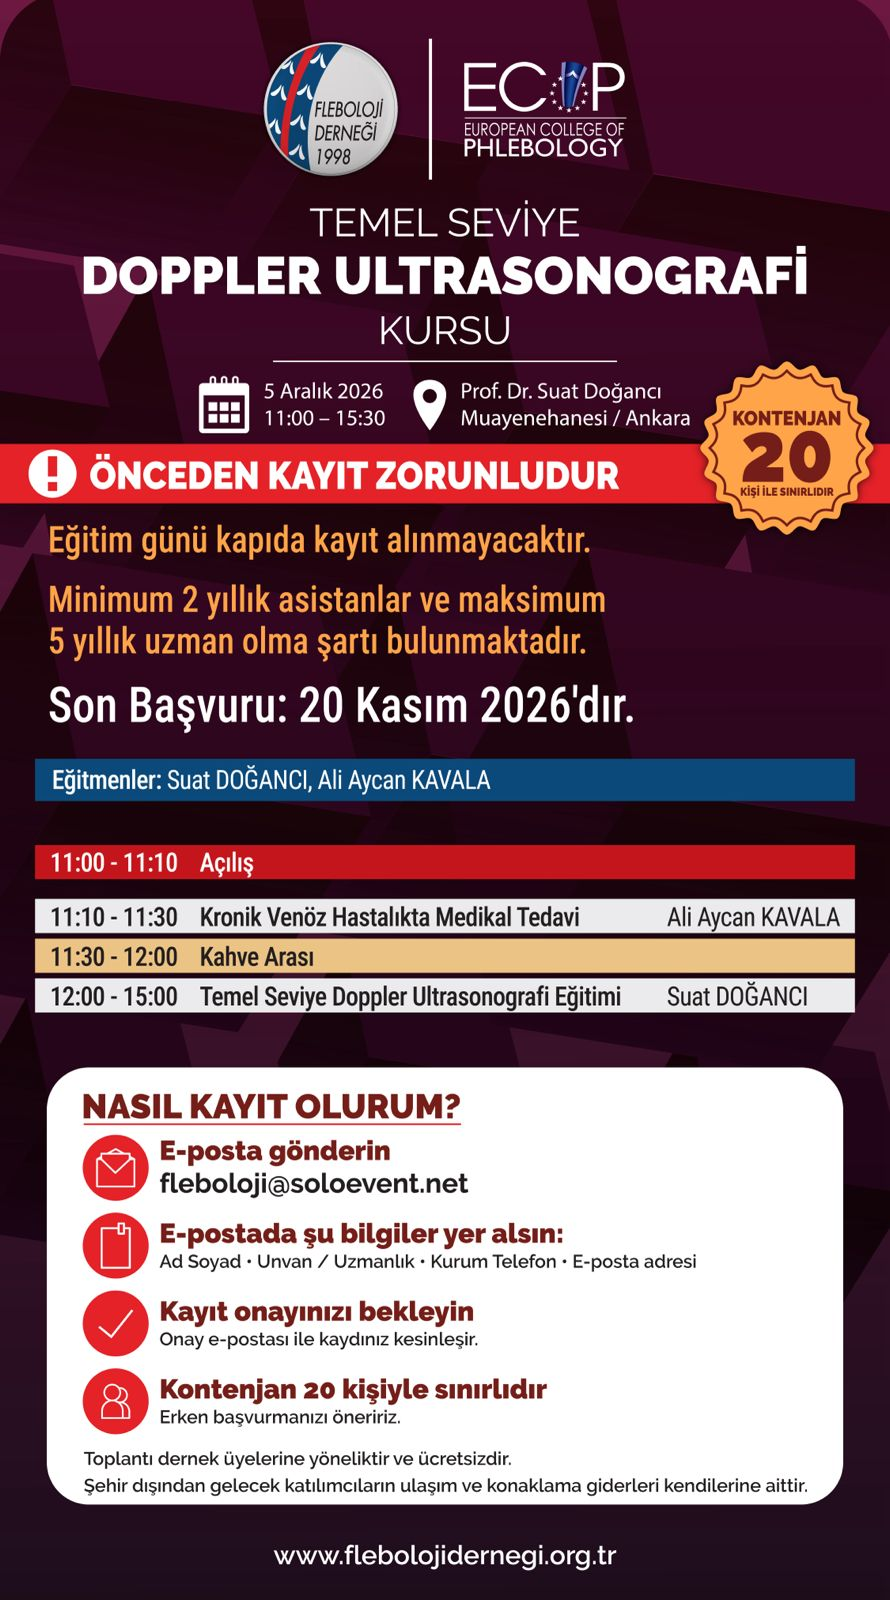
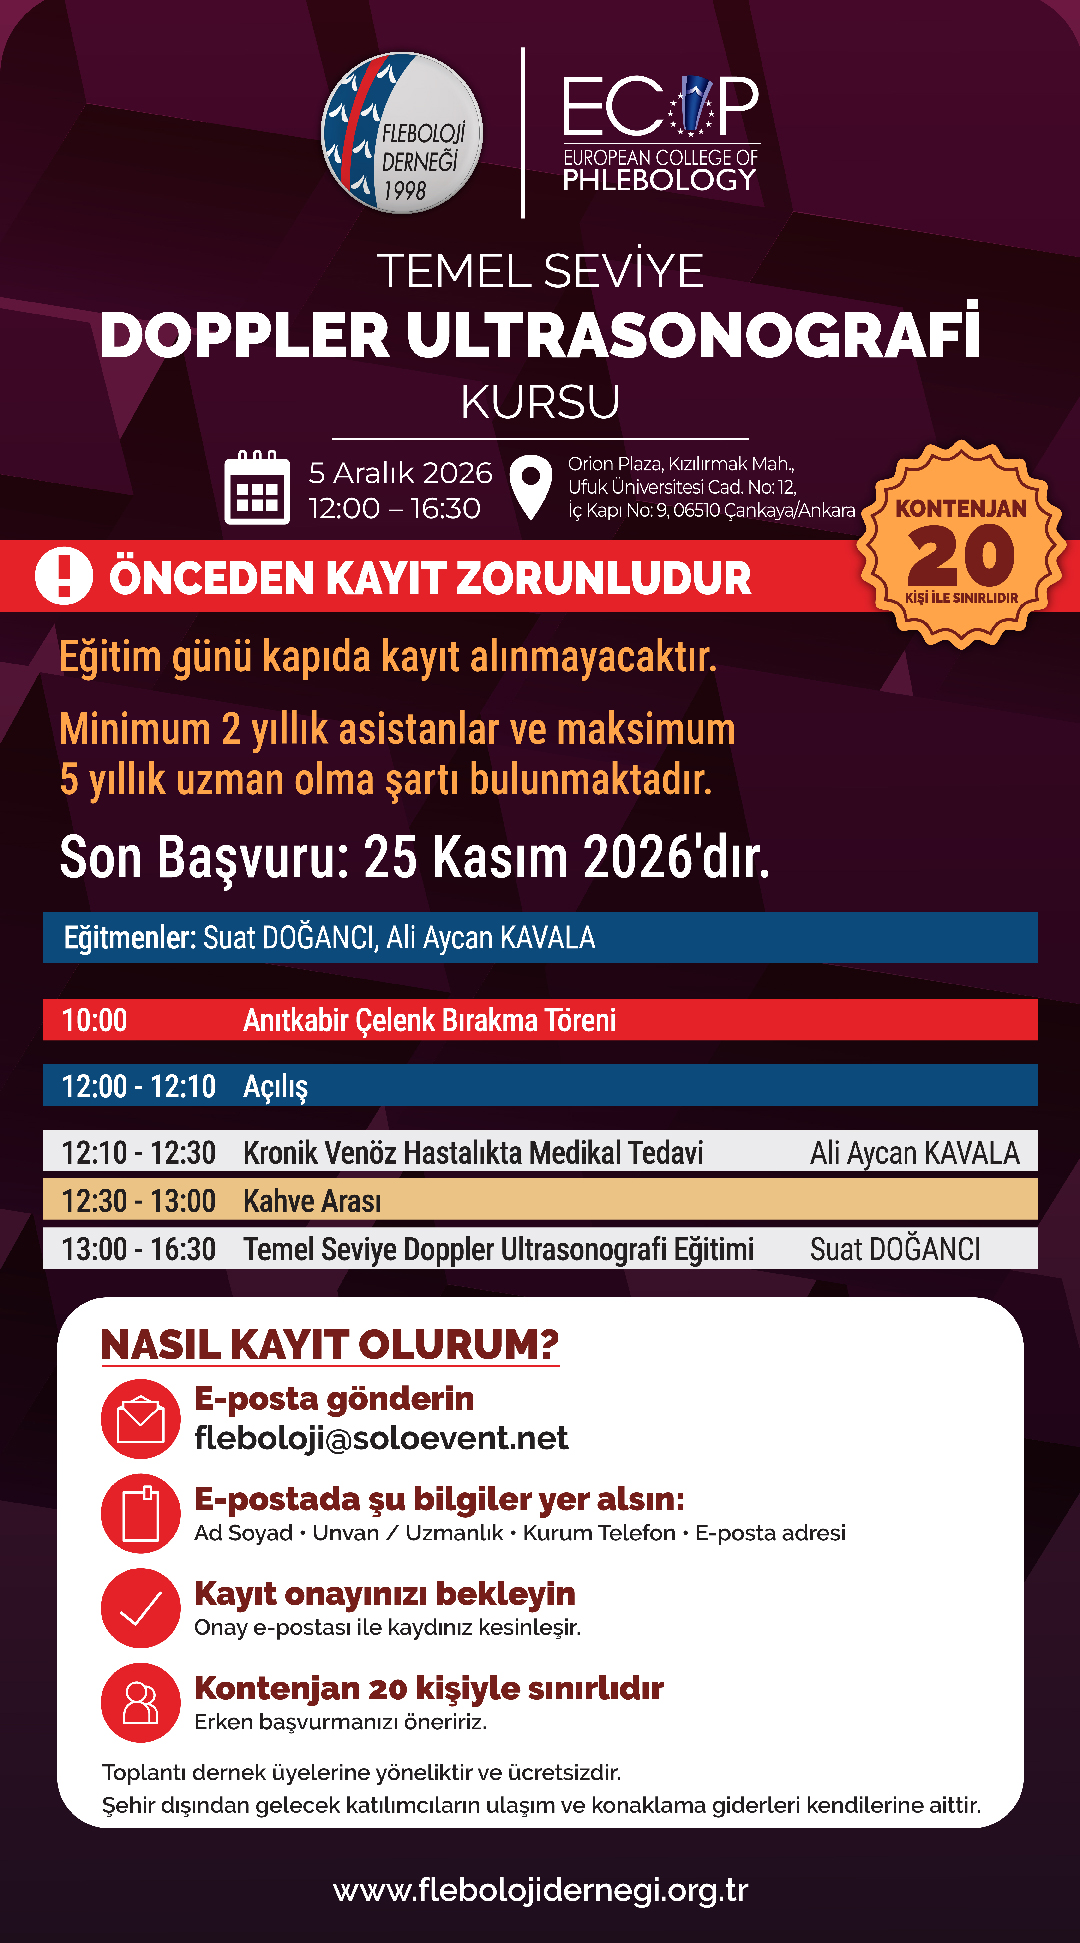
görsel revizesi

diff --git a/index.php b/index.php
@@ -113,7 +113,7 @@
                                 <div class="owl-carousel main-slider-carousel" style="margin-bottom: 20px;">
                                     <div class="slide-item">
                                         <a href="/duyurular/anitkabir.php" title="Anıtkabir Çelenk Bırakma Töreni - 5 Aralık 2026">
-                                            <img alt="Anıtkabir Çelenk Bırakma Töreni - 5 Aralık 2026, saat 10.00" src="/doc/anitkabir/doppler-anitkabir-slider.jpeg" title="Anıtkabir Çelenk Bırakma Töreni" style="width: 100%; height: auto;">
+                                            <img alt="Anıtkabir Çelenk Bırakma Töreni - 5 Aralık 2026, saat 10.00" src="/doc/anitkabir/doppler-anitkabir-slider.jpeg?v=2" title="Anıtkabir Çelenk Bırakma Töreni" style="width: 100%; height: auto;">
                                         </a>
                                     </div>
                                     <div class="slide-item">
@@ -224,7 +224,7 @@
                                                 <div class="td-module-image">
                                                     <div class="td-module-thumb">
                                                         <a href="/duyurular/anitkabir.php" rel="bookmark" title="ANITKABİR ÇELENK BIRAKMA TÖRENİ">
-                                                            <img alt="ANITKABİR ÇELENK BIRAKMA TÖRENİ - 5 Aralık 2026" class="entry-thumb" height="150" sizes="(max-width: 218px) 100vw, 218px" src="doc/anitkabir/doppler-anitkabir-kare.jpeg" srcset="" title="ANITKABİR ÇELENK BIRAKMA TÖRENİ" width="218">
+                                                            <img alt="ANITKABİR ÇELENK BIRAKMA TÖRENİ - 5 Aralık 2026" class="entry-thumb" height="150" sizes="(max-width: 218px) 100vw, 218px" src="doc/anitkabir/doppler-anitkabir-kare.jpeg?v=2" srcset="" title="ANITKABİR ÇELENK BIRAKMA TÖRENİ" width="218">
                                                         </a>
                                                     </div>
                                                 </div>

diff --git a/duyurular.php b/duyurular.php
@@ -40,7 +40,7 @@
                             <div class="td_module_10 td_module_wrap td-animation-stack">
                                 <div class="td-module-thumb" style="margin-bottom: 10px;">
                                     <a href="/duyurular/anitkabir.php" rel="bookmark" title="Anıtkabir Çelenk Bırakma Töreni">
-                                        <img width="218" height="150" class="entry-thumb" src="/doc/anitkabir/doppler-anitkabir-kare.jpeg" sizes="(max-width: 218px) 100vw, 218px" alt="Anıtkabir Çelenk Bırakma Töreni - 5 Aralık 2026" title="Anıtkabir Çelenk Bırakma Töreni" />
+                                        <img width="218" height="150" class="entry-thumb" src="/doc/anitkabir/doppler-anitkabir-kare.jpeg?v=2" sizes="(max-width: 218px) 100vw, 218px" alt="Anıtkabir Çelenk Bırakma Töreni - 5 Aralık 2026" title="Anıtkabir Çelenk Bırakma Töreni" />
                                     </a>
                                 </div>
                                 <div class="item-details">

diff --git a/yan-menu-duyurular-guncel.php b/yan-menu-duyurular-guncel.php
@@ -21,7 +21,7 @@
                 <div class="td_module_6 td_module_wrap td-animation-stack">
                     <div class="td-module-thumb">
                         <a href="/duyurular/anitkabir.php" rel="bookmark" title="ANITKABİR ÇELENK BIRAKMA TÖRENİ">
-                            <img width="100" height="70" class="entry-thumb" src="/doc/anitkabir/doppler-anitkabir-kare.jpeg" alt="ANITKABİR ÇELENK BIRAKMA TÖRENİ - 5 Aralık 2026" title="ANITKABİR ÇELENK BIRAKMA TÖRENİ" />
+                            <img width="100" height="70" class="entry-thumb" src="/doc/anitkabir/doppler-anitkabir-kare.jpeg?v=2" alt="ANITKABİR ÇELENK BIRAKMA TÖRENİ - 5 Aralık 2026" title="ANITKABİR ÇELENK BIRAKMA TÖRENİ" />
                         </a>
                     </div>
                     <div class="item-details">

diff --git a/duyurular/anitkabir.php b/duyurular/anitkabir.php
@@ -27,7 +27,7 @@
                                     </header>
                                 </div>
                                 <div class="td-post-content">
-                                    <img src="../doc/anitkabir/doppler-anitkabir.jpeg" alt="ANITKABİR ÇELENK BIRAKMA TÖRENİ - 5 Aralık 2026, saat 10.00, Aslanlı Yol Girişi, Anıtkabir" style="width: 100%; height: auto;">
+                                    <img src="../doc/anitkabir/doppler-anitkabir.jpeg?v=2" alt="ANITKABİR ÇELENK BIRAKMA TÖRENİ - 5 Aralık 2026, saat 10.00, Aslanlı Yol Girişi, Anıtkabir" style="width: 100%; height: auto;">
                                 </div>
                             </article>
                         </div>
